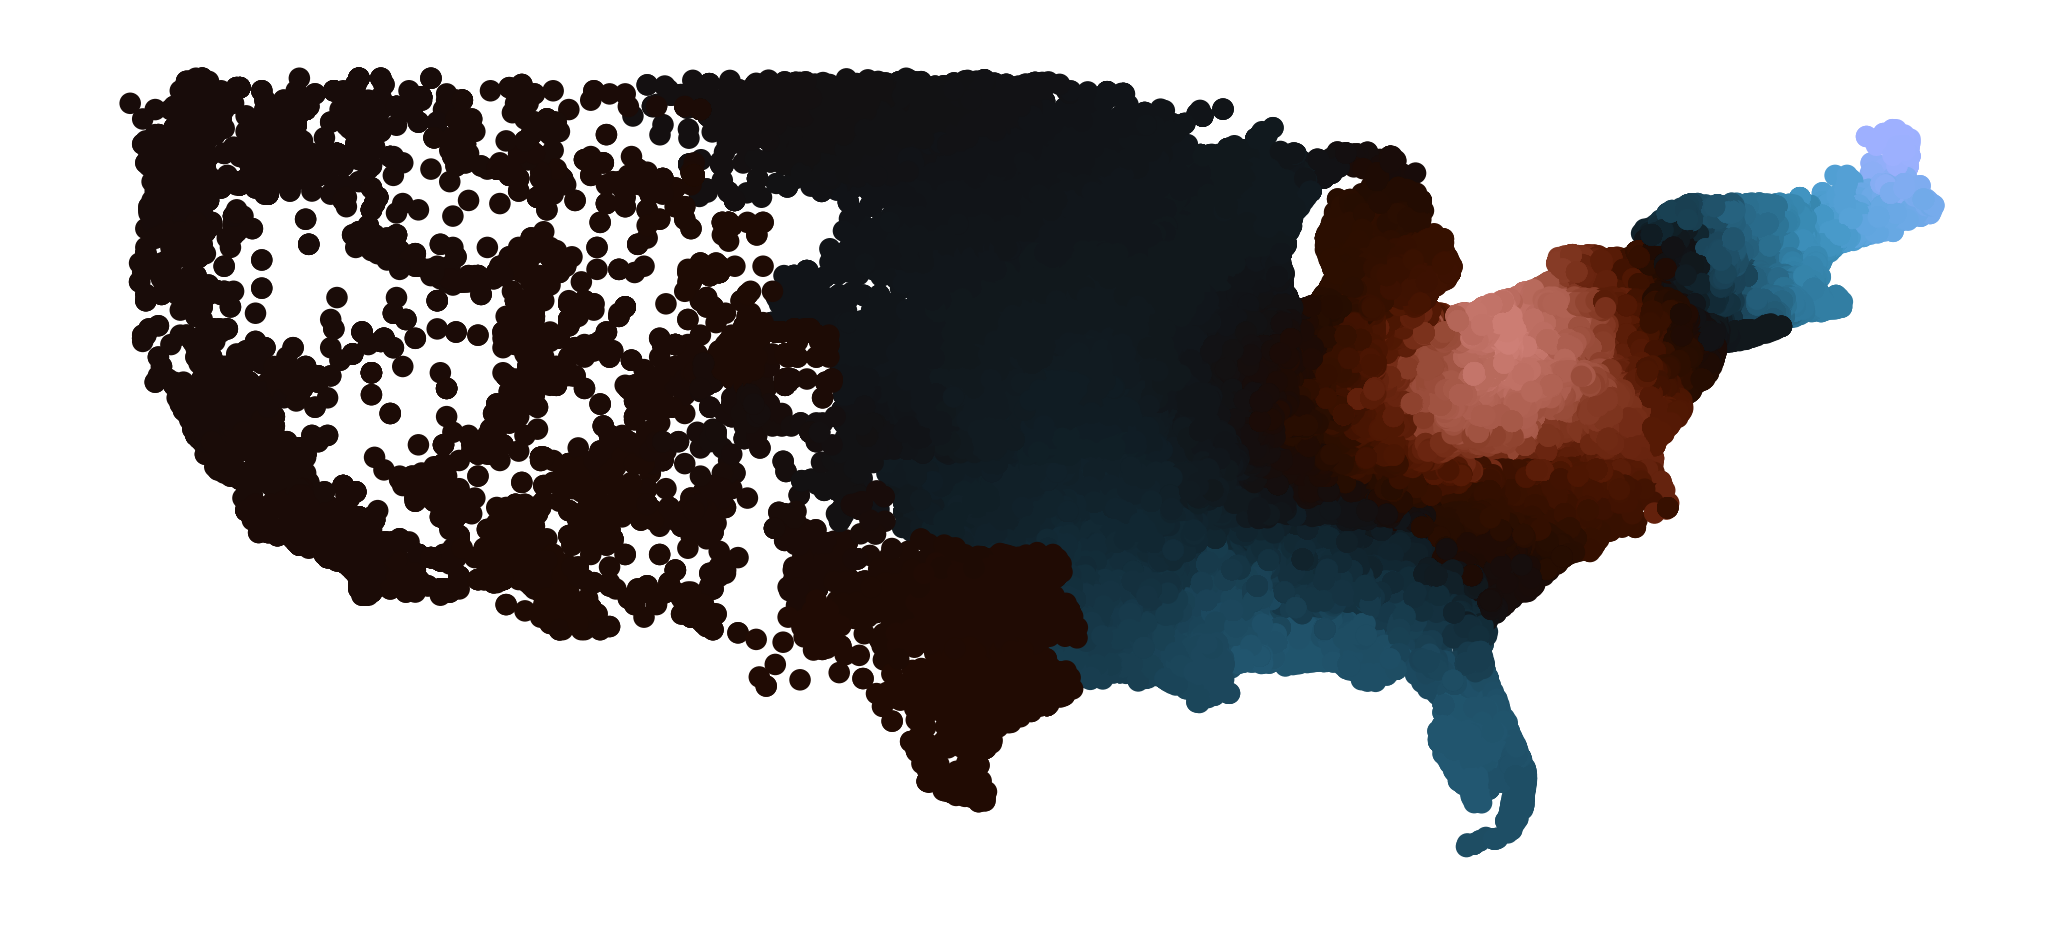
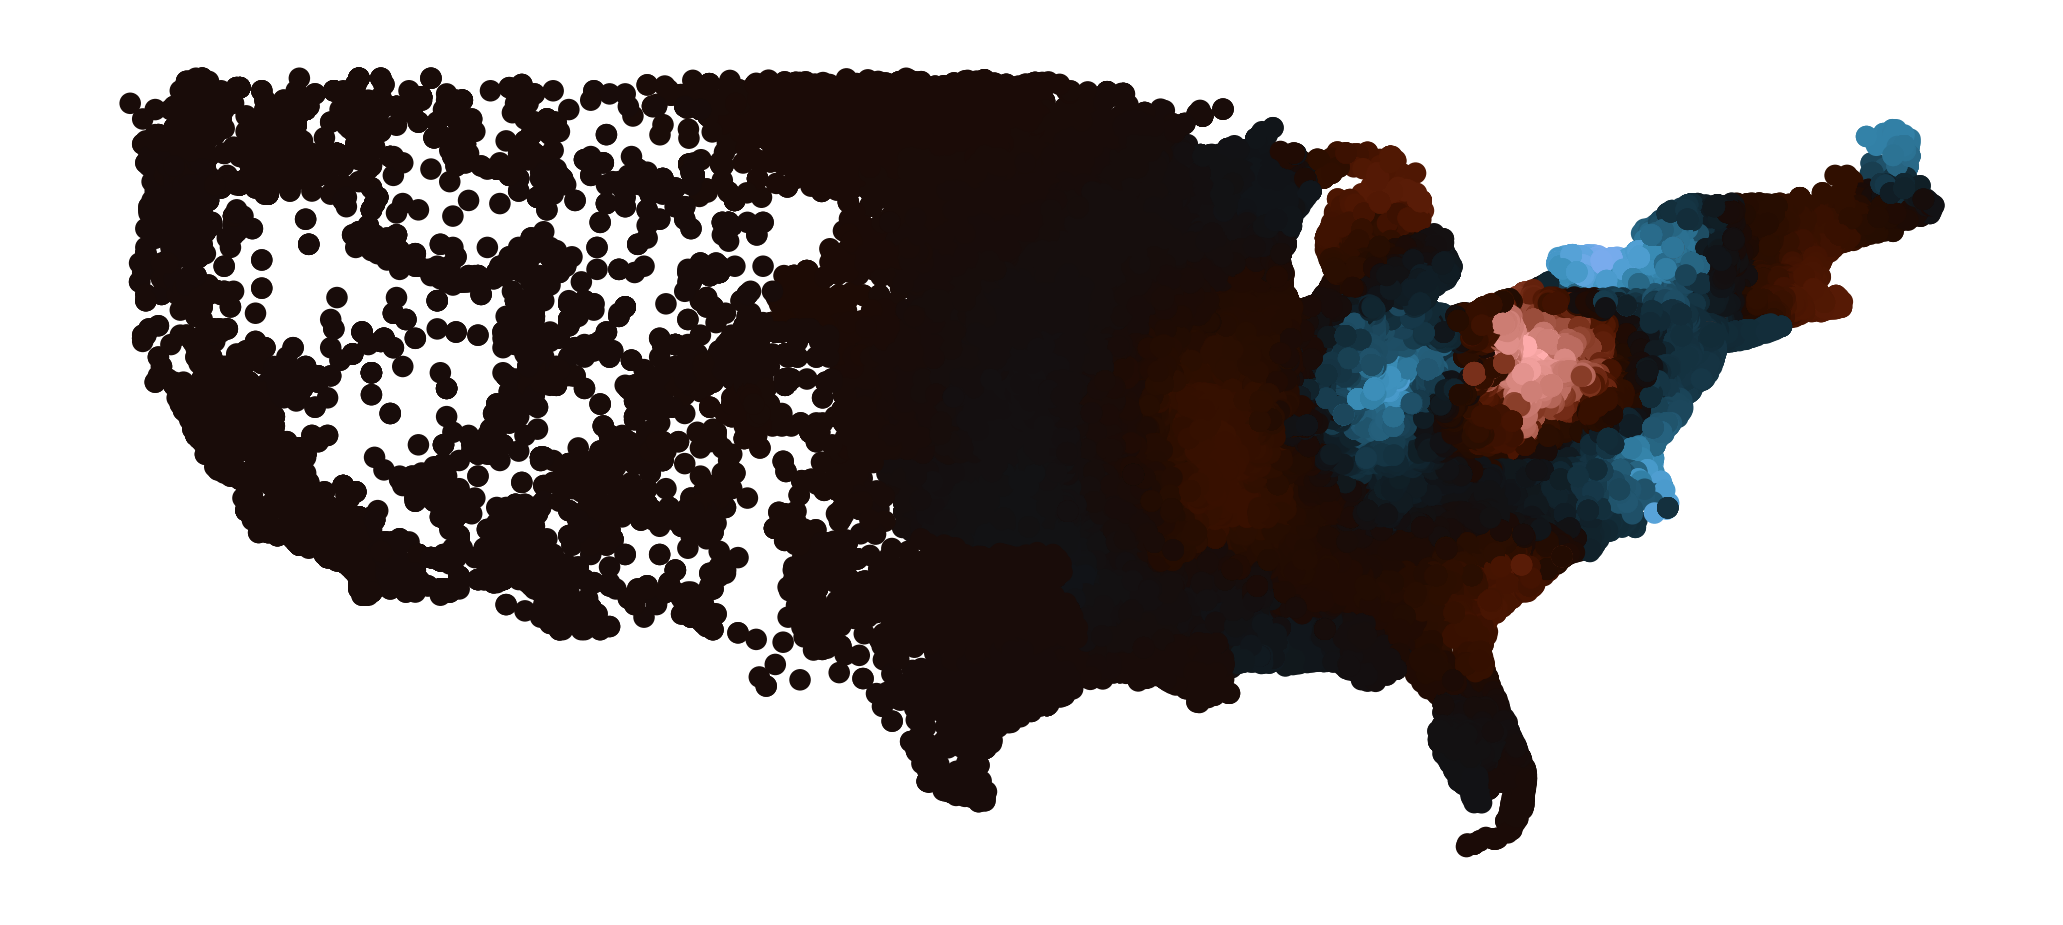
Order support for low-pass and new examps

Changed region(s): [[0.4964, 0.1211, 0.9617, 0.9384]]

diff --git a/sgwt/cholconv.py b/sgwt/cholconv.py
@@ -43,6 +43,7 @@ class Convolve:
 
     
     def __enter__(self) -> "Convolve":
+
         # Start Cholmod
         self.chol.start()
 
@@ -60,7 +61,7 @@ class Convolve:
 
         return self
 
-    def __exit__(self, exc_type: Optional[Type[BaseException]], exc_val: Optional[BaseException], exc_tb: Optional[TracebackType]) -> Optional[bool]:
+    def __exit__(self, exc_type, exc_val, exc_tb):
 
         # Free the factored matrix object
         self.chol.free_factor(self.chol.fact_ptr)
@@ -141,11 +142,13 @@ class Convolve:
 
         return W
     
-    def lowpass(self, B: np.ndarray, scales: List[float] = [1], Bset: Optional[csc_matrix] = None, refactor: bool = True) -> List[np.ndarray]:
+    def lowpass(self, B: np.ndarray, scales: List[float] = [1], Bset: Optional[csc_matrix] = None, refactor: bool = True, order = 1) -> List[np.ndarray]:
         """
         Computes low-pass filtered scaling coefficients at specified scales.
 
         Uses the analytical form: I / (sL + I).
+
+        Warning: orders > 1 may cause issues if Bset is passed, untested
 
         Parameters
         ----------
@@ -164,24 +167,24 @@ class Convolve:
             Filtered signals for each scale.
         """
 
+        # Pointer to b (The function being convolved)
+        if not B.flags['F_CONTIGUOUS']:  # pragma: no cover
+            B = np.asfortranarray(B)
+
+
+        # Using this requires the number of columns in f to be 1
+        if Bset is not None:  # pragma: no cover
+            Bset = byref(self.chol.numpy_to_chol_sparse_vec(Bset))
+
         # List, malloc, numpy, etc.
         W = []
         X1 = self.X1
         Xset   = self.Xset
         Y, E   = self.Y, self.E
 
-        # Pointer to b (The function being convolved)
-        if not B.flags['F_CONTIGUOUS']:  # pragma: no cover
-            B = np.asfortranarray(B)
-        B    = byref(self.chol.numpy_to_chol_dense(B))
-
-        # Using this requires the number of columns in f to be 1
-        if Bset is not None:  # pragma: no cover
-            Bset = byref(self.chol.numpy_to_chol_sparse_vec(Bset))
-
-        
-        A_ptr = byref(self.chol.A)
-        fact_ptr = self.chol.fact_ptr
+        B_chol_struct = self.chol.numpy_to_chol_dense(B)
+        A_ptr         = byref(self.chol.A)
+        fact_ptr      = self.chol.fact_ptr
 
 
         # Calculate Scaling Coefficients of 'f' for each scale
@@ -191,18 +194,25 @@ class Convolve:
             # In some instances it will alreayd be factord at appropriate scale, so we allow option to skip
             if refactor:
                 self.chol.num_factor(A_ptr, fact_ptr, 1/scale)
-            
-            # Step 2 -> Solve Linear System (A + beta*I) X1 = B
-            self.chol.solve2(fact_ptr, B,  Bset, X1, Xset, Y, E) 
 
-            # Step 3 ->  Divide by scale  X1 = X1/scale (A bit pointless to pass A but need to pass something)
-            self.chol.sdmult(byref(self.chol.A), X1,  X1, 0.0,  1/scale)
+            # Only relevant for order > 1
+            in_ptr = byref(B_chol_struct)
+
+            # Solve more than once iff order > 1
+            for _ in range(order):
+            
+                # Step 2 -> Solve Linear System (A + beta*I) X1 = B
+                self.chol.solve2(fact_ptr, in_ptr,  Bset, X1, Xset, Y, E) 
+
+                # Step 3 ->  Divide by scale  X1 = X1/scale (A bit pointless to pass A but need to pass something)
+                self.chol.sdmult(A_ptr, X1,  X1, 0.0,  1/scale)
+
+                in_ptr = X1
 
             # Save
             W.append(
                 self.chol.chol_dense_to_numpy(X1)
             )
-
         return W
 
     def bandpass(self, B: np.ndarray, scales: List[float] = [1], order: int = 1) -> List[np.ndarray]:
@@ -226,17 +236,20 @@ class Convolve:
             Filtered signals for each scale.
         """
 
-        # List, malloc, numpy, etc.
-        W = []
-        X1, X2 = self.X1, self.X2 
-        Xset   = self.Xset
-        Y, E   = self.Y, self.E
-
-        # Pointer to b (The function being convolved)
+        
         if not B.flags['F_CONTIGUOUS']:  # pragma: no cover
             B = np.asfortranarray(B)
+
+        
+        # Pointer to bB (The function being convolved)
         B_chol_struct = self.chol.numpy_to_chol_dense(B)
-        A_ptr = byref(self.chol.A)
+
+        # List, malloc, numpy, etc.
+        W        = []
+        X1, X2   = self.X1, self.X2 
+        Xset     = self.Xset
+        Y, E     = self.Y, self.E
+        A_ptr    = byref(self.chol.A)
         fact_ptr = self.chol.fact_ptr
 
         # Calculate Scaling Coefficients of 'f' for each scale
@@ -245,6 +258,7 @@ class Convolve:
             # Step 1 -> Numeric Factorization
             self.chol.num_factor(A_ptr, fact_ptr, 1/scale)
             
+            # Solve more than once iff order > 1
             in_ptr = byref(B_chol_struct)
             for _ in range(order):
                 
@@ -462,7 +476,7 @@ class DyConvolve:
         return W
     
     
-    def lowpass(self, B: np.ndarray, Bset: Optional[csc_matrix] = None) -> List[np.ndarray]:
+    def lowpass(self, B: np.ndarray, Bset: Optional[csc_matrix] = None, order = 1) -> List[np.ndarray]:
         """
         Computes low-pass filtered scaling coefficients.
         
@@ -487,27 +501,35 @@ class DyConvolve:
         Xset  = self.Xset
         Y, E  = self.Y, self.E
 
-        # Pointer to b (The function being convolved)
-        B    = byref(self.chol.numpy_to_chol_dense(B))
-
         # Using this requires the number of columns in f to be 1
         if Bset is not None:  # pragma: no cover
             Bset = byref(self.chol.numpy_to_chol_sparse_vec(Bset))
 
+        # Pointer to b (The function being convolved)
+        A_ptr         = byref(self.chol.A)
+        B_chol_struct = self.chol.numpy_to_chol_dense(B)
+
+
         # Calculate Scaling Coefficients of 'f' for each scale
         for q, fact_ptr in zip(self.poles, self.factors):
 
-            # Step 1 -> Solve Linear System (A + beta*I) X1 = B
-            self.chol.solve2(fact_ptr, B,  Bset, X1, Xset, Y, E) 
+            in_ptr = byref(B_chol_struct)
 
-            # Step 2 ->  Multiply by pole  X1 = X1 * q
-            self.chol.sdmult(byref(self.chol.A), X1,  X1, 0.0,  q)
+            for _ in range(order):
 
+                # Step 1 -> Solve Linear System (A + beta*I) X1 = B
+                self.chol.solve2(fact_ptr, in_ptr,  Bset, X1, Xset, Y, E) 
+
+                # Step 2 ->  Multiply by pole  X1 = X1 * q
+                self.chol.sdmult(A_ptr, X1,  X1, 0.0,  q)
+
+                in_ptr = X1
 
             # Save
             W.append(
                 self.chol.chol_dense_to_numpy(X1)
             )
+            
 
         return W
     

diff --git a/examples/demo_filters_6.py b/examples/demo_filters_6.py
@@ -1,0 +1,49 @@
+import os
+import matplotlib.pyplot as plt
+
+# DOC_START_CODE_EXCLUDE_IMPORTS
+from sgwt import Convolve, impulse
+from sgwt import DELAY_USA as L
+from sgwt import COORD_USA as C
+
+X  = impulse(L, n=34000) 
+Y  = impulse(L, n=42000) 
+
+# 2 Impulses, plot interference pattern
+Z = X - Y
+
+# Scales
+s = [ 1, 10, 100]
+
+#  Fourth Order Band-Pass
+with Convolve(L) as conv:
+    X2 = conv.bandpass(X, s, order=15)[0]
+    Y2 = conv.bandpass(Y, s, order=15)[0]
+    Z2 = conv.bandpass(Z, s, order=15)[0]
+    
+# DOC_END_CODE_EXCLUDE_PLOT
+from demo_plot import plot_signal
+
+# Save the figure for documentation
+script_dir = os.path.dirname(os.path.abspath(__file__))
+project_root = os.path.abspath(os.path.join(script_dir, '..'))
+static_images_dir = os.path.join(project_root, 'docs', '_static', 'images')
+
+# Ensure the directory exists
+os.makedirs(static_images_dir, exist_ok=True)
+
+
+X_path = os.path.join(static_images_dir, 'demo_filters_6_x.png')
+Y_path = os.path.join(static_images_dir, 'demo_filters_6_y.png')
+Z_path = os.path.join(static_images_dir, 'demo_filters_6_z.png')
+
+plot_signal(X2[:,0], C, 'managua')
+plt.savefig(X_path, dpi=500, bbox_inches='tight')
+
+plot_signal(Y2[:,0], C, 'managua')
+plt.savefig(Y_path, dpi=500, bbox_inches='tight')
+
+plot_signal(Z2[:,0], C, 'managua')
+plt.savefig(Z_path, dpi=500, bbox_inches='tight')
+
+plt.show()

diff --git a/examples/demo_filters_5.py b/examples/demo_filters_5.py
@@ -1,0 +1,34 @@
+import os
+import matplotlib.pyplot as plt
+
+# DOC_START_CODE_EXCLUDE_IMPORTS
+from sgwt import Convolve, impulse
+from sgwt import DELAY_USA as L
+from sgwt import COORD_USA as C
+
+# Impulse
+X  = 2.5*impulse(L, n=22000)
+X  += impulse(L, n=72000)
+
+# Scales
+s = [.5, 10, 100]
+
+#  Fourth Order Band-Pass
+with Convolve(L) as conv:
+    Y = conv.lowpass(X, s, order=8)[0]
+    
+# DOC_END_CODE_EXCLUDE_PLOT
+from demo_plot import plot_signal
+plot_signal(Y[:,0], C, 'managua')
+
+# Save the figure for documentation
+script_dir = os.path.dirname(os.path.abspath(__file__))
+project_root = os.path.abspath(os.path.join(script_dir, '..'))
+static_images_dir = os.path.join(project_root, 'docs', '_static', 'images')
+
+# Ensure the directory exists
+os.makedirs(static_images_dir, exist_ok=True)
+
+save_path = os.path.join(static_images_dir, 'demo_filters_5.png')
+plt.savefig(save_path, dpi=500, bbox_inches='tight')
+plt.show()

diff --git a/examples/demo_filters_4.py b/examples/demo_filters_4.py
@@ -1,0 +1,35 @@
+import os
+import matplotlib.pyplot as plt
+
+# DOC_START_CODE_EXCLUDE_IMPORTS
+from sgwt import Convolve, impulse
+from sgwt import DELAY_USA as L
+from sgwt import COORD_USA as C
+
+# Impulse
+X  = impulse(L, n=42000) 
+
+print(X.shape)
+
+# Scales
+s = [ 1, 10, 100]
+
+#  Fourth Order Band-Pass
+with Convolve(L) as conv:
+    Y = conv.bandpass(X, s, order=15)[0]
+    
+# DOC_END_CODE_EXCLUDE_PLOT
+from demo_plot import plot_signal
+plot_signal(Y[:,0], C, 'managua')
+
+# Save the figure for documentation
+script_dir = os.path.dirname(os.path.abspath(__file__))
+project_root = os.path.abspath(os.path.join(script_dir, '..'))
+static_images_dir = os.path.join(project_root, 'docs', '_static', 'images')
+
+# Ensure the directory exists
+os.makedirs(static_images_dir, exist_ok=True)
+
+save_path = os.path.join(static_images_dir, 'demo_filters_4_bandpass.png')
+plt.savefig(save_path, dpi=500, bbox_inches='tight')
+plt.show()

diff --git a/examples/demo_filters_7.py b/examples/demo_filters_7.py
@@ -1,0 +1,33 @@
+import os
+import matplotlib.pyplot as plt
+
+# DOC_START_CODE_EXCLUDE_IMPORTS
+from sgwt import Convolve, impulse
+from sgwt import DELAY_USA as L
+from sgwt import COORD_USA as C
+
+# Impulse
+X  = impulse(L, n=75000)
+
+# Scales
+s = [.5, 10, 100]
+
+#  Fourth Order Band-Pass
+with Convolve(L) as conv:
+    Y = conv.lowpass(X, s, order=8)[0]
+    
+# DOC_END_CODE_EXCLUDE_PLOT
+from demo_plot import plot_signal
+plot_signal(Y[:,0], C, 'managua')
+
+# Save the figure for documentation
+script_dir = os.path.dirname(os.path.abspath(__file__))
+project_root = os.path.abspath(os.path.join(script_dir, '..'))
+static_images_dir = os.path.join(project_root, 'docs', '_static', 'images')
+
+# Ensure the directory exists
+os.makedirs(static_images_dir, exist_ok=True)
+
+save_path = os.path.join(static_images_dir, 'demo_filters_7.png')
+plt.savefig(save_path, dpi=500, bbox_inches='tight')
+plt.show()

diff --git a/examples/demo_filters_8.py b/examples/demo_filters_8.py
@@ -1,0 +1,33 @@
+import os
+import matplotlib.pyplot as plt
+
+# DOC_START_CODE_EXCLUDE_IMPORTS
+from sgwt import Convolve, impulse
+from sgwt import DELAY_USA as L
+from sgwt import COORD_USA as C
+
+# Impulse
+X  = impulse(L, n=75000)
+
+# Scales
+s = [2]
+
+#  Fourth Order Band-Pass
+with Convolve(L) as conv:
+    Y = conv.bandpass(X, s, order=10)[0]
+    
+# DOC_END_CODE_EXCLUDE_PLOT
+from demo_plot import plot_signal
+plot_signal(Y[:,0], C, 'managua')
+
+# Save the figure for documentation
+script_dir = os.path.dirname(os.path.abspath(__file__))
+project_root = os.path.abspath(os.path.join(script_dir, '..'))
+static_images_dir = os.path.join(project_root, 'docs', '_static', 'images')
+
+# Ensure the directory exists
+os.makedirs(static_images_dir, exist_ok=True)
+
+save_path = os.path.join(static_images_dir, 'demo_filters_8.png')
+plt.savefig(save_path, dpi=500, bbox_inches='tight')
+plt.show()
